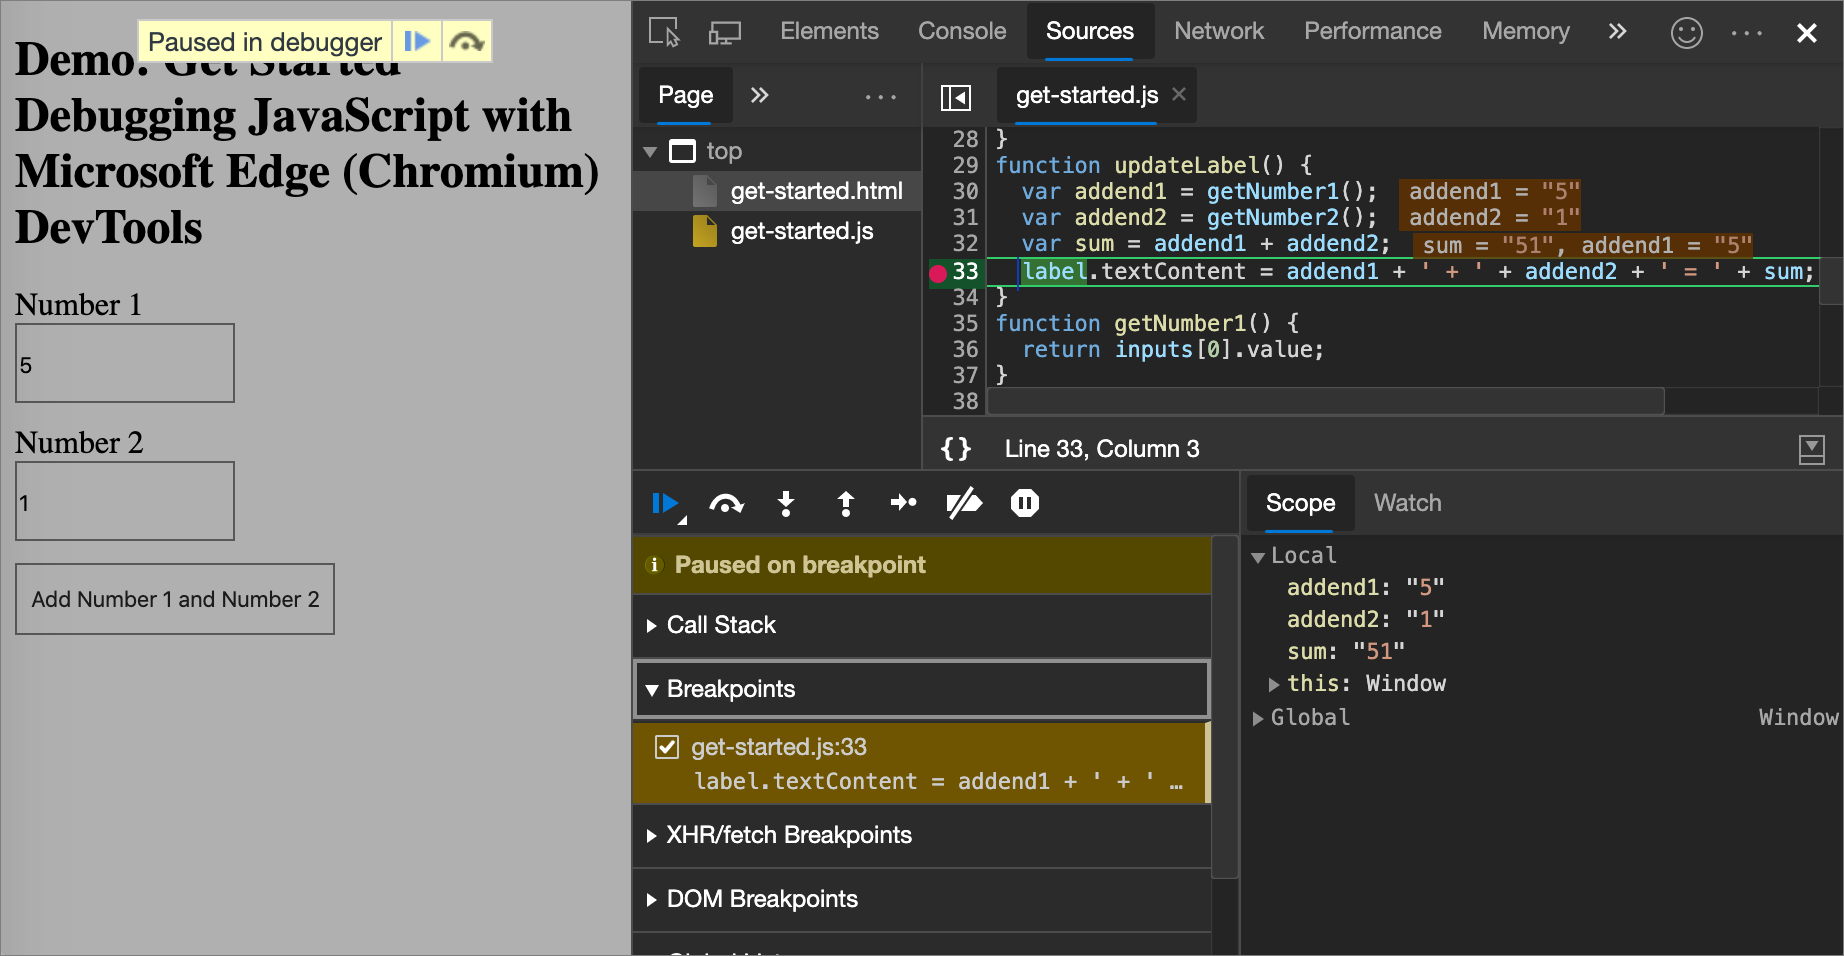
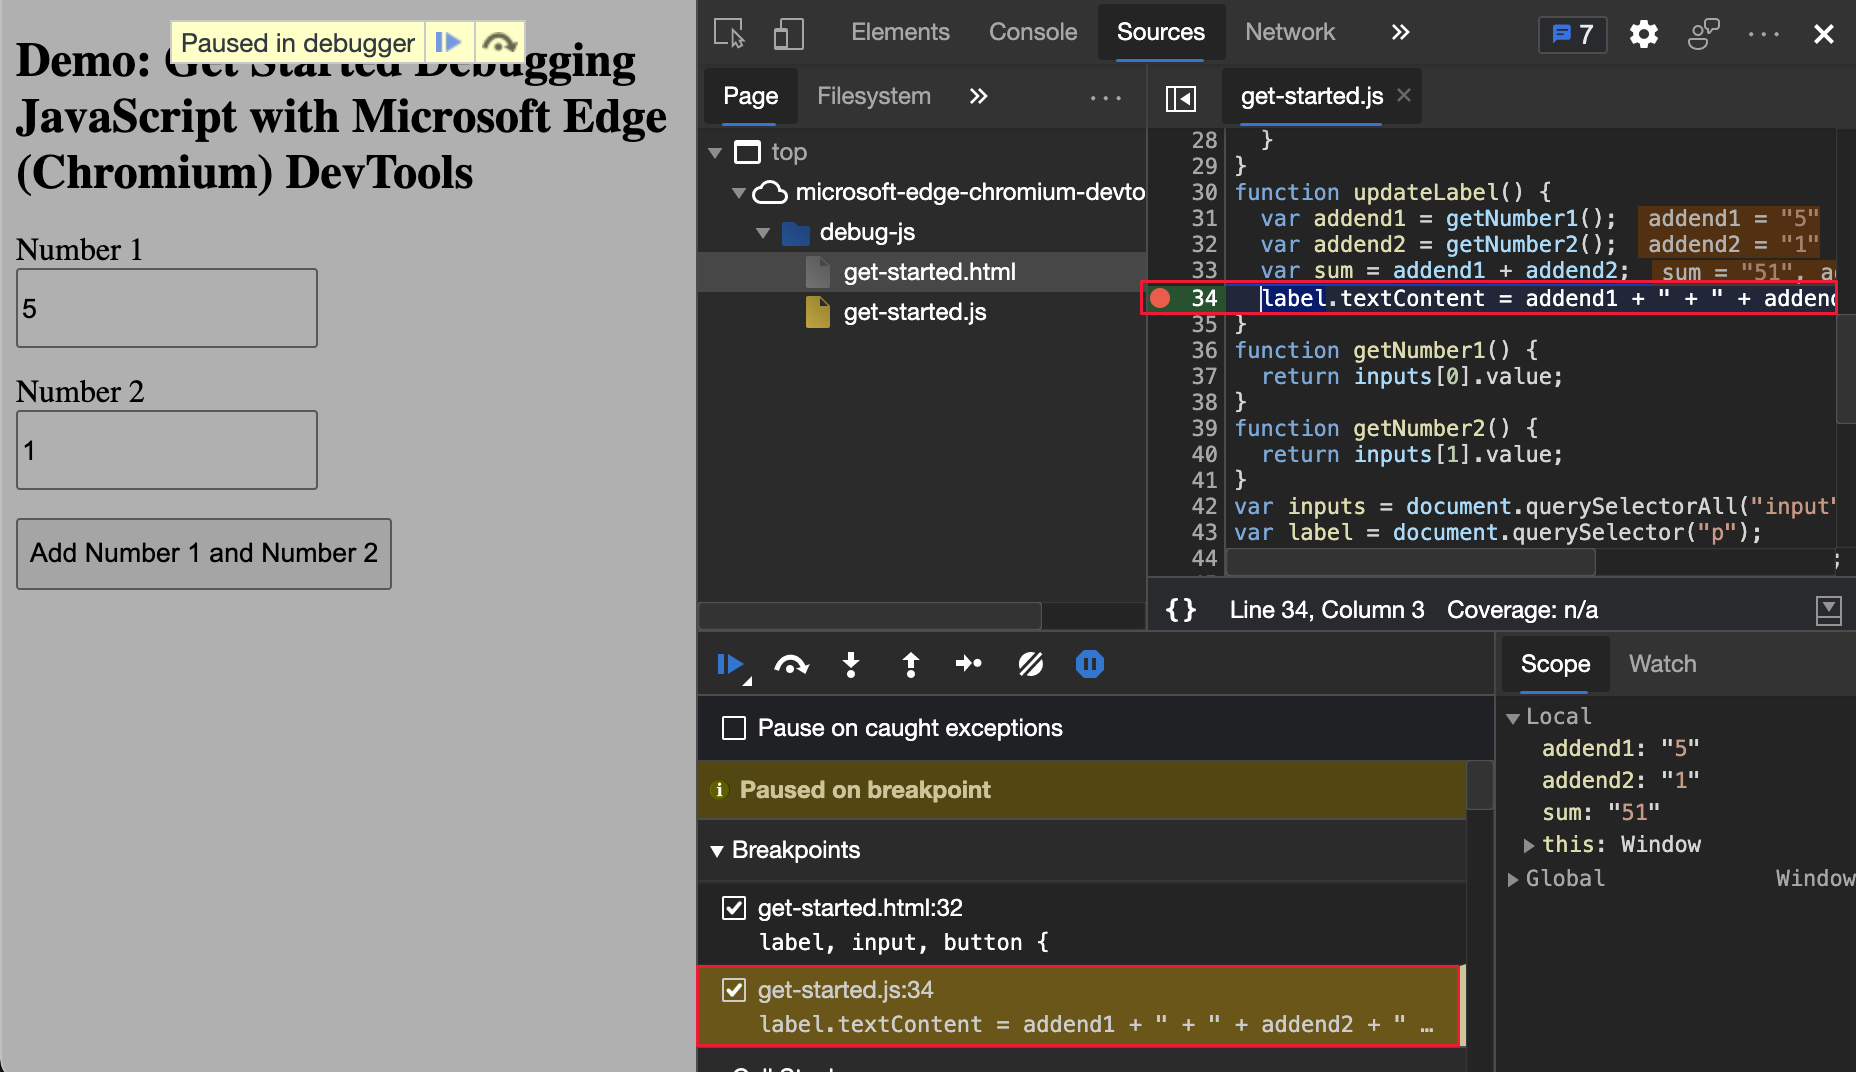
commit from WebFundamentals

diff --git a/microsoft-edge/devtools-guide-chromium/javascript/index.md b/microsoft-edge/devtools-guide-chromium/javascript/index.md
@@ -144,7 +144,7 @@ Line-of-code breakpoints are the most common type of breakpoint.  When you get t
     ```  
     
 1.  On the left, the number of this particular line of code is displayed as **34**.  Choose line **34**.  DevTools puts a red icon to the left of **34**.  The red icon indicates that a line-of-code breakpoint is on this line.  DevTools always pauses before this line of code is run.  
-1.  Choose **Resume script execution** \(![Resume script execution][ImageResumeIcon]\).  The script continues running until it reaches line 33.  On lines 30, 31, and 34, DevTools prints the values of `addend1`, `addend2`, and `sum` to the right of the semi-colon on each line.  
+1.  Choose **Resume script execution** \(![Resume script execution][ImageResumeIcon]\).  The script continues running until it reaches line 33.  On lines 31, 32, and 33, DevTools prints the values of `addend1`, `addend2`, and `sum` to the right of the semi-colon on each line.  
     
     :::image type="complex" source="../media/javascript-sources-breakpoint-paused.msft.png" alt-text="DevTools pauses on the line-of-code breakpoint on line 34" lightbox="../media/javascript-sources-breakpoint-paused.msft.png":::
        DevTools pauses on the line-of-code breakpoint on line 34  
